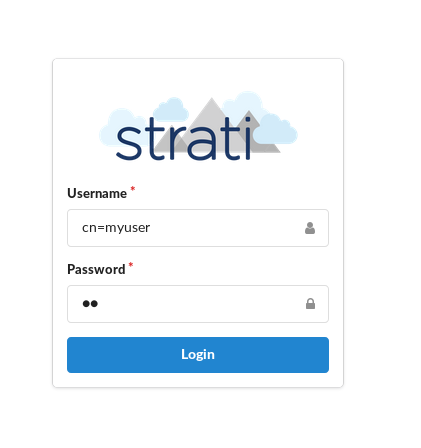
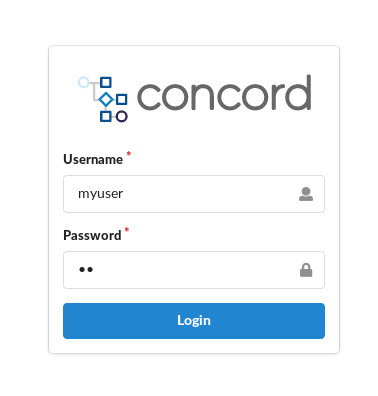
update ansible secrets usage, oldap cfg

diff --git a/docs/getting-started/development.md b/docs/getting-started/development.md
@@ -102,7 +102,7 @@ All JAR files are signed using a GPG key. Pass phrase for a key must be configur
    objectClass: organizationalRole
    objectClass: simpleSecurityObject
    objectClass: mailAccount
-   userPassword: {SSHA}FNvyYavb8XMKC0s2HdCJFZqDY1IzMHqy
+   userPassword: {SSHA}FZxXb9WXU8yO5VgJYCU8Z+pbVzCJisNX
    mail: myuser@example.org
    ```
 
@@ -118,10 +118,10 @@ All JAR files are signed using a GPG key. Pass phrase for a key must be configur
 4. create the Concord's LDAP configuration file:
    ```
    $ cat /opt/concord/conf/oldap.properties
-   url=ldap://127.0.0.1:1389
+   url=ldap://localhost:1389
    searchBase=dc=example,dc=org
-   principalSuffix=,dc=example,dc=org
-   principalSearchFilter=({0})
+   principalSearchFilter=(cn={0})
+   usernameProperty=cn
    systemUsername=cn=admin,dc=example,dc=org
    systemPassword=admin
    ```
@@ -135,7 +135,7 @@ file:
    11:21:36.873 [main] [INFO ] c.w.c.server.cfg.LdapConfiguration - init -> using external LDAP configuration: /opt/concord/conf/oldap.properties
    ```
 
-6. use `cn=myuser` and `q1` to authenticate in the Console:
+6. use `myuser` and `q1` to authenticate in the Console:
 
    ![Login](/assets/img/screenshots/oldap-login.png)
   

diff --git a/docs/getting-started/configuration.md b/docs/getting-started/configuration.md
@@ -108,13 +108,12 @@ Create `ldap.properties` file, containing the following parameters
 (substitute values with the values for your environment):
 
 ```
-url=ldap://host:389
-searchBase=DC=unit,DC=org,DC=com
-principalSuffix=@unit.org.com
-principalSearchFilter=(&(objectCategory=Person)(sAMAccountName={0}))
+url=ldaps://host:389
+searchBase=DC=Wal-Mart,DC=com
+principalSearchFilter=(&(sAMAccountName={0})(objectCategory=person))
+usernameProperty=sAMAccountName
 systemUsername=user
 systemPassword=pwd
-exposeAttributes=mail,company
 ```
 
 Set `LDAP_CFG` environment variable to the path of the created file.

diff --git a/docs/plugins/ansible.md b/docs/plugins/ansible.md
@@ -238,13 +238,14 @@ the key to use with the `privateKey` configuration:
 
 ```yaml
 flows:
- default:
- - task: ansible
-   in:
-     user: app
-     privateKey:
-       secretName: mySecret
-       password: mySecretPassword
+  default:
+  - task: ansible
+    in:
+      user: app
+      privateKey:
+        org: "myOrg" # optional
+        secretName: mySecret
+        password: mySecretPassword # optional
 ```
 
 This exports the key with the provided username and password to the filesystem
